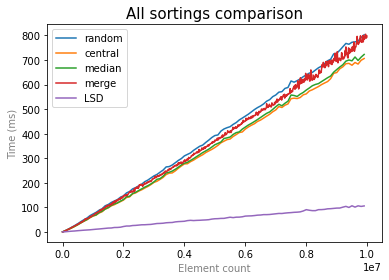
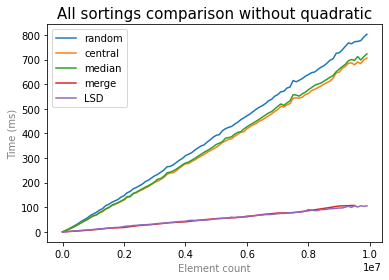
upd readme

diff --git a/sorting/README.md b/sorting/README.md
@@ -78,16 +78,32 @@
 > * Добавить цифровую сортировку(LSD) для uint32_y (такие же тесты, только теперь размеры до 10 млн, но шаг 100000).
 > * Добавить MSD сортировку для uint32_y (такие же тесты, только теперь размеры до 10 млн). (+2б), что в итоге лучше для чиселок сработало?
 > * Добавить MSD сортировку для строк, потестить на массивах строк (+2б)
-
-![lsd](plots/images/lsd.png)
-
+>
 > Как тестить строки?
 > 
 > * Тест 1. Генерируем N строк длины K=1000 по буквам, все буквы равновероятны.
 > * Тест 2. Генерируем N строк длины от 1 до N=1000000 по буквам, все буквы равновероятны. Случайно перемешиваем.
 > 
+
+Измерение времени показывает следующие результаты:
+
+![lsd](plots/images/lsd.png)
+
+Сортировка показывает линейные результаты как и должна была. Действительно, мы фиксированное количество раз (равное количеству разрядов максимального числа) сортируем массив сортировкой подстчетом, работающей за линейное по размеру массива время. Интереснее посмотреть на неё в сравнении с другими сортировками.
+
 ## Пункт 5. Выводы (1б.)
 > Напишите вывод(что удивило, что узнали нового)
 
+Сравним сортировки вместе:
 
-LSD сортровка работает быстрее остальных, но не является универсальной, используя информацию о структуре сортируемых объектов. В частном случае сравнения чисел она хороша по времени. Среди логарифмических сортировок лидирует qsort с выбором среднего по номеру элемента, вероятно за счет отсутствия необходимости дополнительных вычислений. Merge в среднем работает чуть хуже избавленных от случайности вариантов qsort, однако лучше версии с выбором случайного опорного элемента. Квадратичные сортировки, очевидно, работают гораздо хуже логарифмтческих по времени, поэтому не были включены в итоговый график. В сравнении квадратичных сортировок удивило то, что пузырьковая в несколько раз отстает от сортровки выбором.
+![all_all](plots/images/all_with_quadr.png)
+
+Сраза видно, что квадратичные сортировки заметно проигрывают остальным в прямом сравнении (даже самая быстрая из них selection sort), поэтому построим так же график без квадратичных сортировок:
+
+![all_without_quadratic](plots/images/all.png)
+
+Мы видим, что константа действительно имеет значение в случае реальных сортировок: после хорошей оптимизации merge sort не уступает линейной LSD. Асимптотики у них разные, а значит разницу можно будет почувствовать, но на гораздо больших размерах массивов. Здесь же можно сделать вывод о том, что квадратичные сортировки не так бесполезны, как кажутся, и хоть и были выкинуты с графика с большими массивами, на маленьких размерах (например на полученном нами 10) работают лучше, чем рекурсивные логарифмические сортировки. 
+
+При всем этом сортировка LSD будет обходить остальные как на маленьких, так и на больших массивах за счет своей линейности и нерекурсивности. При этом она хороша благодрая тому, что использует информацию о том, как устроены сравниваемые данные, в нашем случае числа, а значит будет менее универсальной.
+
+Быстрая сортировка хороша в сравнении с сортировкой слиянием возможностью выполнения на месте, то есть без требования дополнительной памяти. Однако сортировка слиянием является более предсказуемой с точки зрения времени работы так как не опирается на случайность и не требует выбора опорного элемента, который может быть как удачным, так и неудачным в зависимости от случая.
